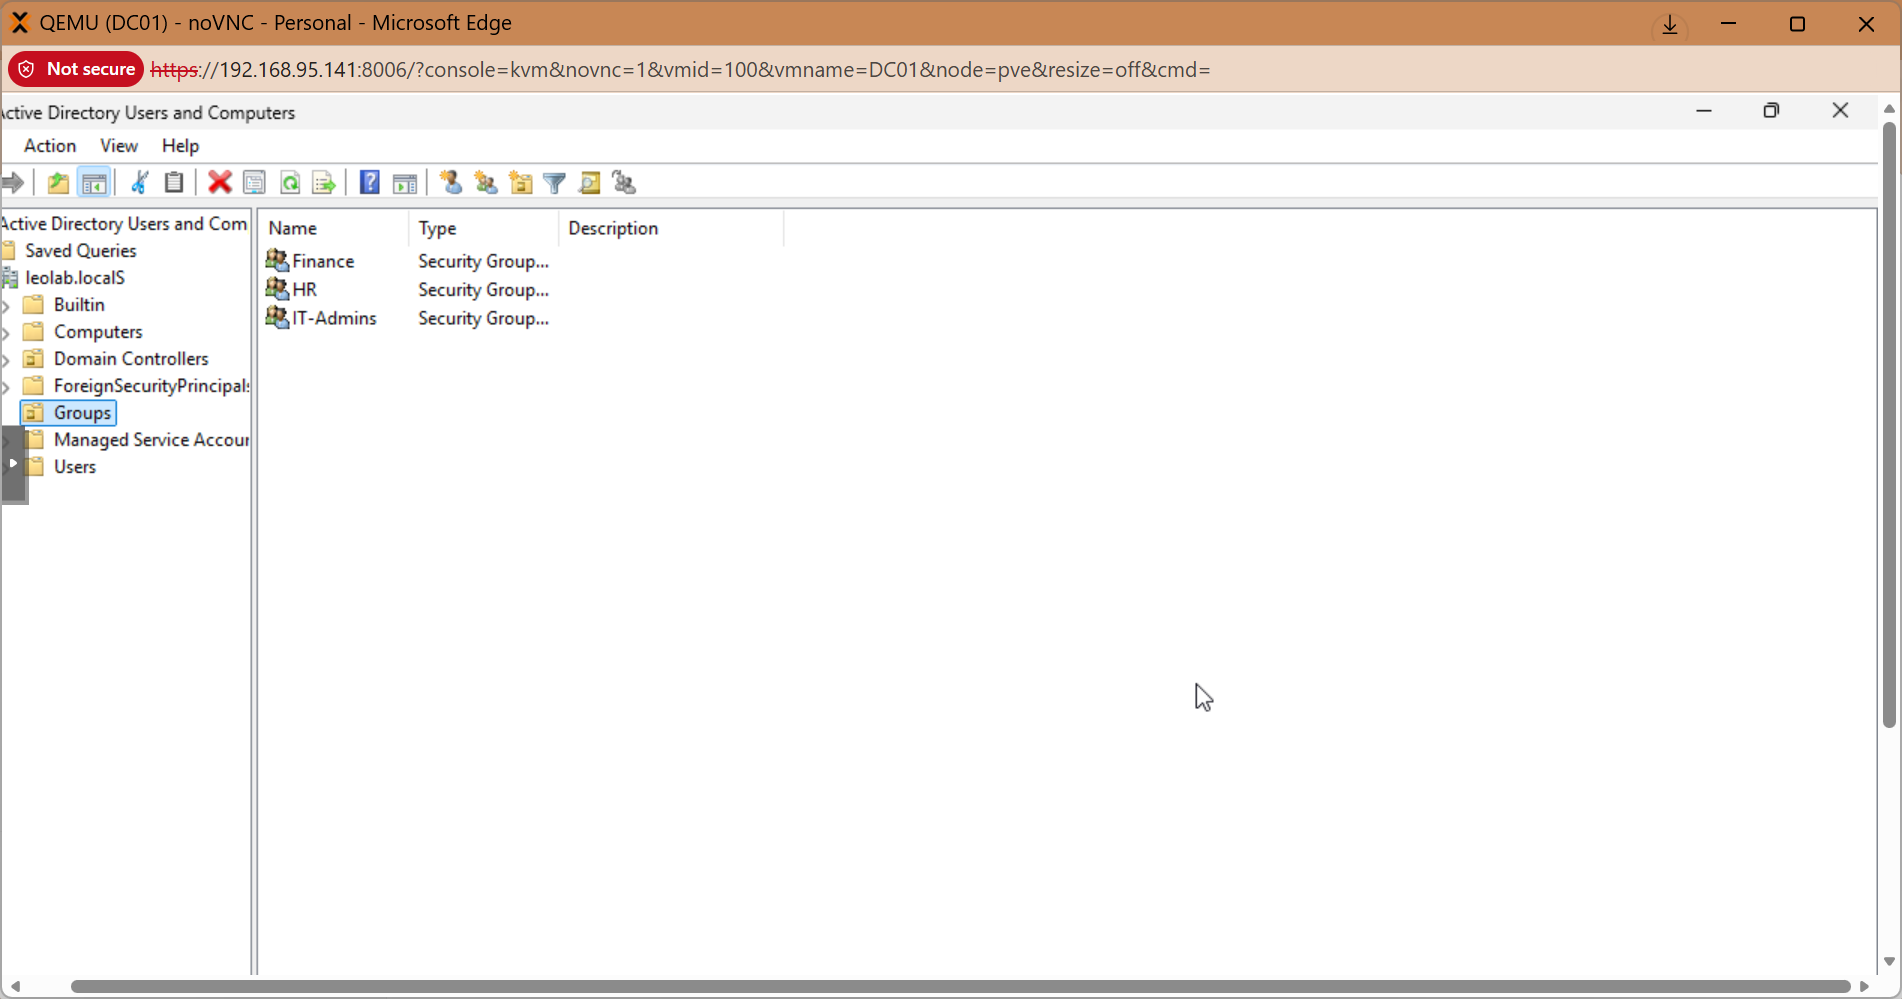
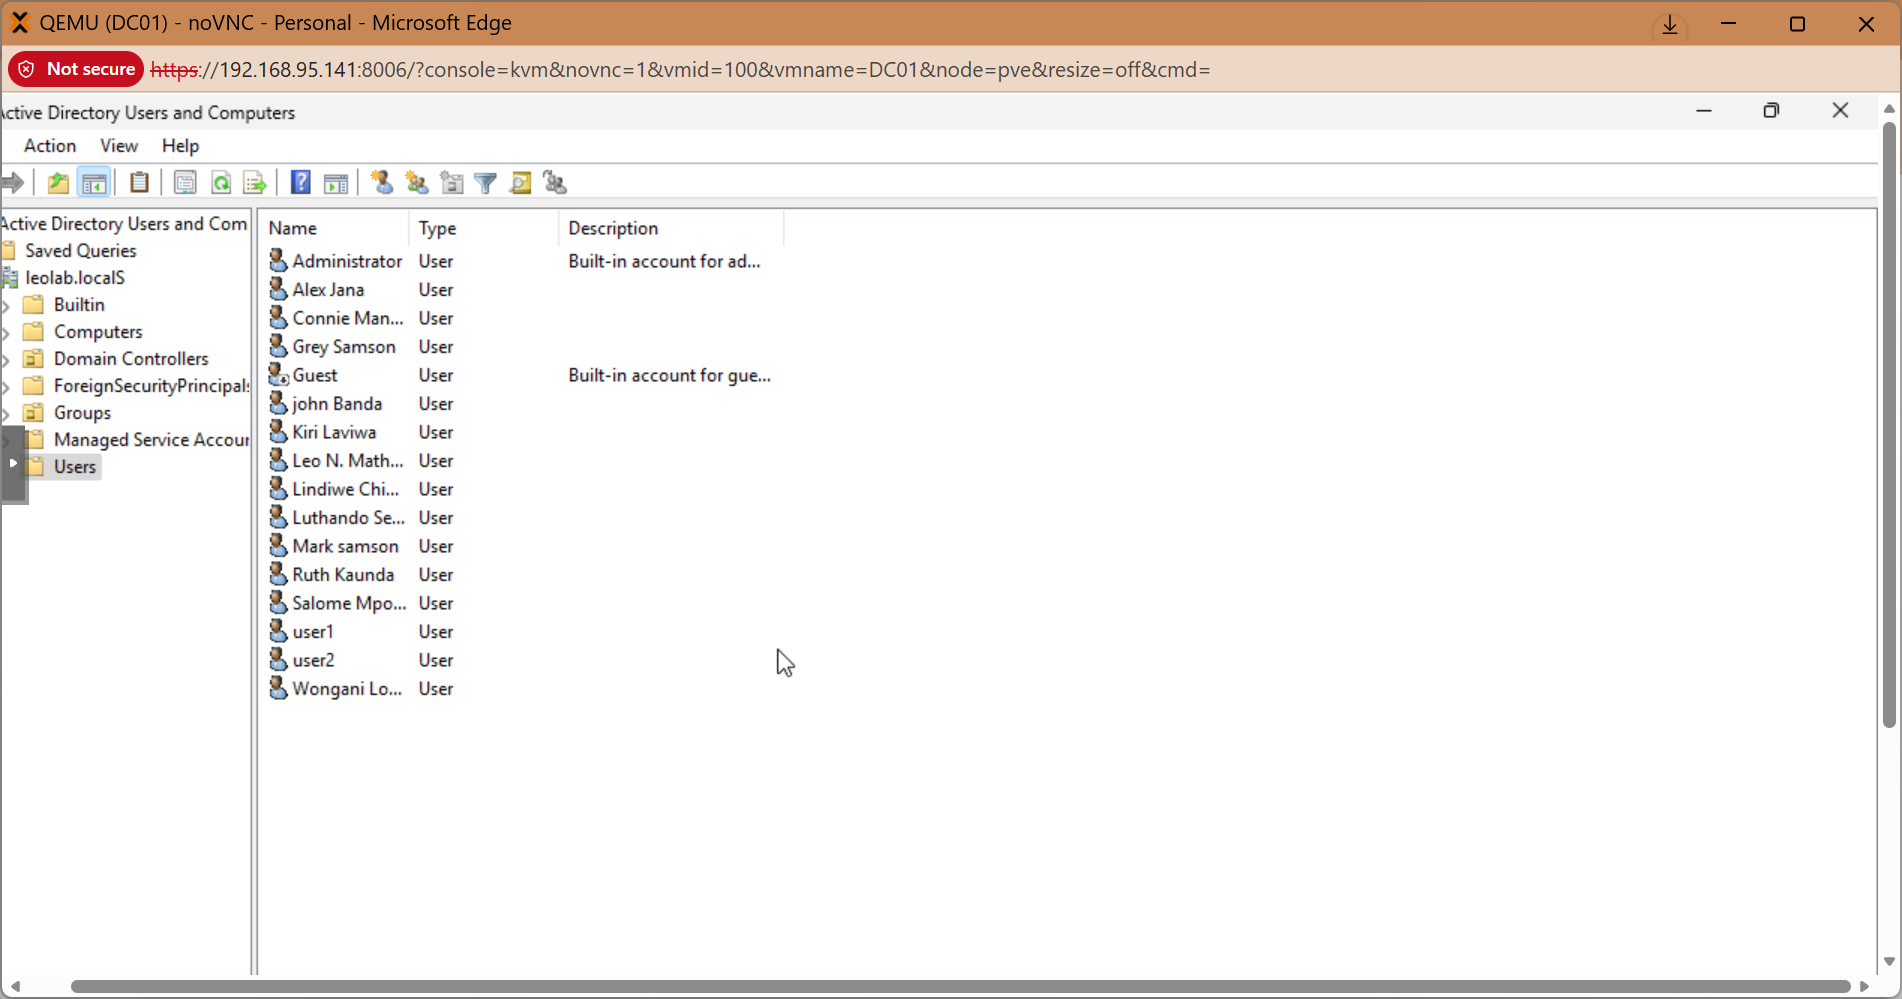
Fixed image paths

diff --git a/backups/proxmox-backup.md b/backups/proxmox-backup.md
@@ -1,60 +1,62 @@
----
-
----
-
-# 💾 Backup & Recovery Strategy
+# Backup and Recovery Strategy
 
 ## Objective
 
-Ensure system availability and disaster recovery capability.
+To ensure system availability and data recovery in case of failure.
 
----
+## Method
 
-## Configuration
+Using Proxmox built-in backup functionality.
 
-- Platform: Proxmox VE
-- Mode: Snapshot
-- Schedule: Daily
-
----
-
-## Steps
+## Configuration Steps
 
 1. Navigate to Datacenter → Backup
-2. Create backup job
+2. Create a backup job
 3. Select VMs:
    - DC01
    - WIN11
-4. Set schedule
+4. Set schedule (Daily)
 
----
+## Backup Mode
+
+- Snapshot mode used for consistency
+
+## Testing Recovery
+
+### Scenario
+
+- Deleted a test user from Active Directory
+
+### Action
+
+- Restored VM from backup
 
 ## Evidence
 
-### 📦 Backup Job
+### Backup Job
 
-![Backup Job](screenshots/backups/backup-job.png)
+![](../screenshots/backups/backup-job.png)
 
-### ✅ Backup Success
+### Backup Success
 
-![Backup Success](screenshots/backups/backup-success.png)
+![](../screenshots/backups/backup-success.png)
 
-### 🔄 Restore Process
+### Restore Process
 
-![Restore](screenshots/backups/backing-restore.png)
-
----
+![](../screenshots/backups/restore.png)
 
 ## Result
 
-- Successful restore completed
-- No data loss observed
-
----
+- System successfully restored
+- Data integrity maintained
 
 ## Importance
 
-- Disaster recovery readiness
-- Business continuity assurance
+Backups ensure:
 
----
+- Business continuity
+- Disaster recovery readiness
+
+## Conclusion
+
+Backup and restore procedures are functional and reliable.

diff --git a/monitoring/wazuh.md b/monitoring/wazuh.md
@@ -1,22 +1,64 @@
----
-
----
-
-# Wazuh Monitoring
+# Monitoring with Wazuh
 
 ## Objective
 
-Monitor system logs and security events.
+To implement centralized log monitoring and detect suspicious activities.
 
-## Setup
+## Server Details
 
-- Installed Wazuh Manager
-- Connected agents
+- Host: OPS (Ubuntu Server)
+- IP Address: 192.168.100.30
+
+## Installation Method
+
+- Installed Wazuh using official installation script
+- Deployed:
+  - Wazuh Manager
+  - Wazuh Dashboard
+
+## Agent Configuration
+
+### Windows 11
+
+- Installed Wazuh agent
+- Registered using authentication key
+- Connected to manager
+
+## Verification
+
+### Agent Status
+
+```
+sudo /var/ossec/bin/agent_control -l
+```
 
 ## Evidence
 
-![Wazuh](../screenshots/monitoring/wazuh-dashboard.png)
+### Dashboard
 
-## Result
+![](../screenshots/monitoring/wazuh-dashboard.png)
 
-Monitoring working successfully.
+### Alerts
+
+![](../screenshots/monitoring/wazuh-alerts.png)
+
+## Use Cases
+
+- Failed login detection
+- Monitoring system activity
+- Log correlation
+
+## Challenges
+
+### Issue: Agent not connecting
+
+- Cause: Not registered
+- Fix: Used `manage_agents` to generate key
+
+### Issue: Docker failures (initial attempt)
+
+- Fix: Switched to native installation
+
+## Conclusion
+
+Wazuh successfully provides centralized monitoring and supports security analysis.

diff --git a/docs/networkdesign.md b/docs/networkdesign.md
@@ -7,21 +7,21 @@ The lab environment is designed as a virtual enterprise network using Proxmox.
 ## Network Type
 
 - Virtual Bridge: vmbr0
-- Internal Network Range: 192.168.10.0/24
+- Internal Network Range: 192.168.100.0/24
 
 ## IP Addressing Scheme
 
-| Machine | Role                    | IP Address    |
-| ------- | ----------------------- | ------------- |
-| DC01    | Domain Controller / DNS | 192.168.10.10 |
-| WIN11   | Client Workstation      | 192.168.10.20 |
-| OPS     | Monitoring Server       | 192.168.10.30 |
-| KALI    | Attack Machine          | 192.168.10.40 |
+| Machine | Role                    | IP Address     |
+| ------- | ----------------------- | -------------- |
+| DC01    | Domain Controller / DNS | 192.168.100.10 |
+| WIN11   | Client Workstation      | 192.168.100.20 |
+| OPS     | Monitoring Server       | 192.168.100.30 |
+| KALI    | Attack Machine          | 192.168.100.40 |
 
 ## DNS Configuration
 
-- Primary DNS Server: 192.168.10.10 (DC01)
-- Domain: leolab.localS
+- Primary DNS Server: 192.168.100.10 (DC01)
+- Domain: lab.local
 
 ## Connectivity Tests
 
@@ -34,7 +34,7 @@ ping dc01
 ### DNS Resolution
 
 ```
-nslookup dc01.leolab.localS
+nslookup dc01.lab.local
 ```
 
 ## Screenshot Evidence

diff --git a/incidents/brute-force.md b/incidents/brute-force.md
@@ -1,21 +1,43 @@
----
+# Incident: Brute Force Attack Detection
 
----
+## Objective
 
-# Brute Force Attack Simulation
+Simulate and detect unauthorized login attempts.
 
-## Scenario
+## Attack Method
 
-Simulated login attack from Kali.
+Performed multiple failed login attempts on Windows 11.
 
-## Detection
+## Tools Used
 
-Wazuh detected multiple failed logins.
+- Kali Linux
+- Windows Event Viewer
+- Wazuh SIEM
 
 ## Evidence
 
-![Attack](../screenshots/incidents/brute-force.png)
+### Attack Source
 
-## Result
+![](../screenshots/incidents/attack-kali.png)
 
-Attack detected and logged successfully.
+### Windows Logs
+
+![](../screenshots/incidents/failed-logins.png)
+
+### Wazuh Detection
+
+![](../screenshots/incidents/wazuh-detection.png)
+
+## Analysis
+
+- Multiple failed login attempts detected
+- Correlated timestamps between systems
+- Alert triggered in Wazuh
+
+## Conclusion
+
+Demonstrates ability to:
+
+- Detect suspicious activity
+- Analyze logs
+- Respond to incidents

diff --git a/ad/dns.md b/ad/dns.md
@@ -1,22 +1,54 @@
----
-
----
-
 # DNS Configuration
 
 ## Objective
 
-Ensure name resolution in the domain.
+To enable name resolution within the domain environment.
 
-## Steps
+## Server Details
 
-- Configure DC01 as DNS server
-- Verify using ping
+- Server: DC01
+- IP Address: 192.168.100.10
+- Role: DNS Server
+
+## Configuration Steps
+
+1. Installed DNS Server role
+2. Created Forward Lookup Zone:
+   - Name: lab.local
+3. Verified DNS records
+
+## Client Configuration
+
+WIN11 DNS configured to:
+
+```
+192.168.100.10
+```
+
+## Testing
+
+### Command
+
+```
+nslookup dc01.lab.local
+ping dc01
+```
 
 ## Evidence
 
-![DNS](../screenshots/ad/dns.png)
+### DNS Zone
+
+![](../screenshots/dns/dns-zone.png)
+
+### Name Resolution
+
+![](../screenshots/dns/nslookup-test.png)
 
 ## Result
 
-DNS functioning correctly.
+- Successful name resolution
+- Stable communication between systems
+
+## Conclusion
+
+DNS is correctly configured and supports Active Directory operations.

diff --git a/ad/users-groups.md b/ad/users-groups.md
@@ -1,6 +1,6 @@
 
 
-# 🔐 Active Directory Users & Groups
+# Active Directory Users & Groups
 
 ## Objective
 
@@ -20,13 +20,14 @@ Create and manage domain users and security groups within Active Directory.
 
 3. Created Users:
    
-   - test.user
-   - admin.user
+   - Luthando Seunda
+   - john Banda
 
 4. Created Security Groups:
    
    - IT_Admins
    - Finance_Users
+   - HR_users
 
 5. Assigned users to groups
 
@@ -36,11 +37,23 @@ Create and manage domain users and security groups within Active Directory.
 
 ### 👥 Users Created
 
-![Users](screenshots/ad/ad-users.png)
+![Users](../screenshots/ad/ad-users.png)
 
 ### 🧩 Groups Created
 
-![Groups](screenshots/ad/ad-groups.png)
+![Groups](../screenshots/ad/ad-groups.png)
+
+
+
+## Assigned users to groups
+
+![](../screenshots/ad/group-members.png)
+
+
+
+## Password Policy
+
+![](../screenshots/ad/password-policy.png)
 
 ---
 
